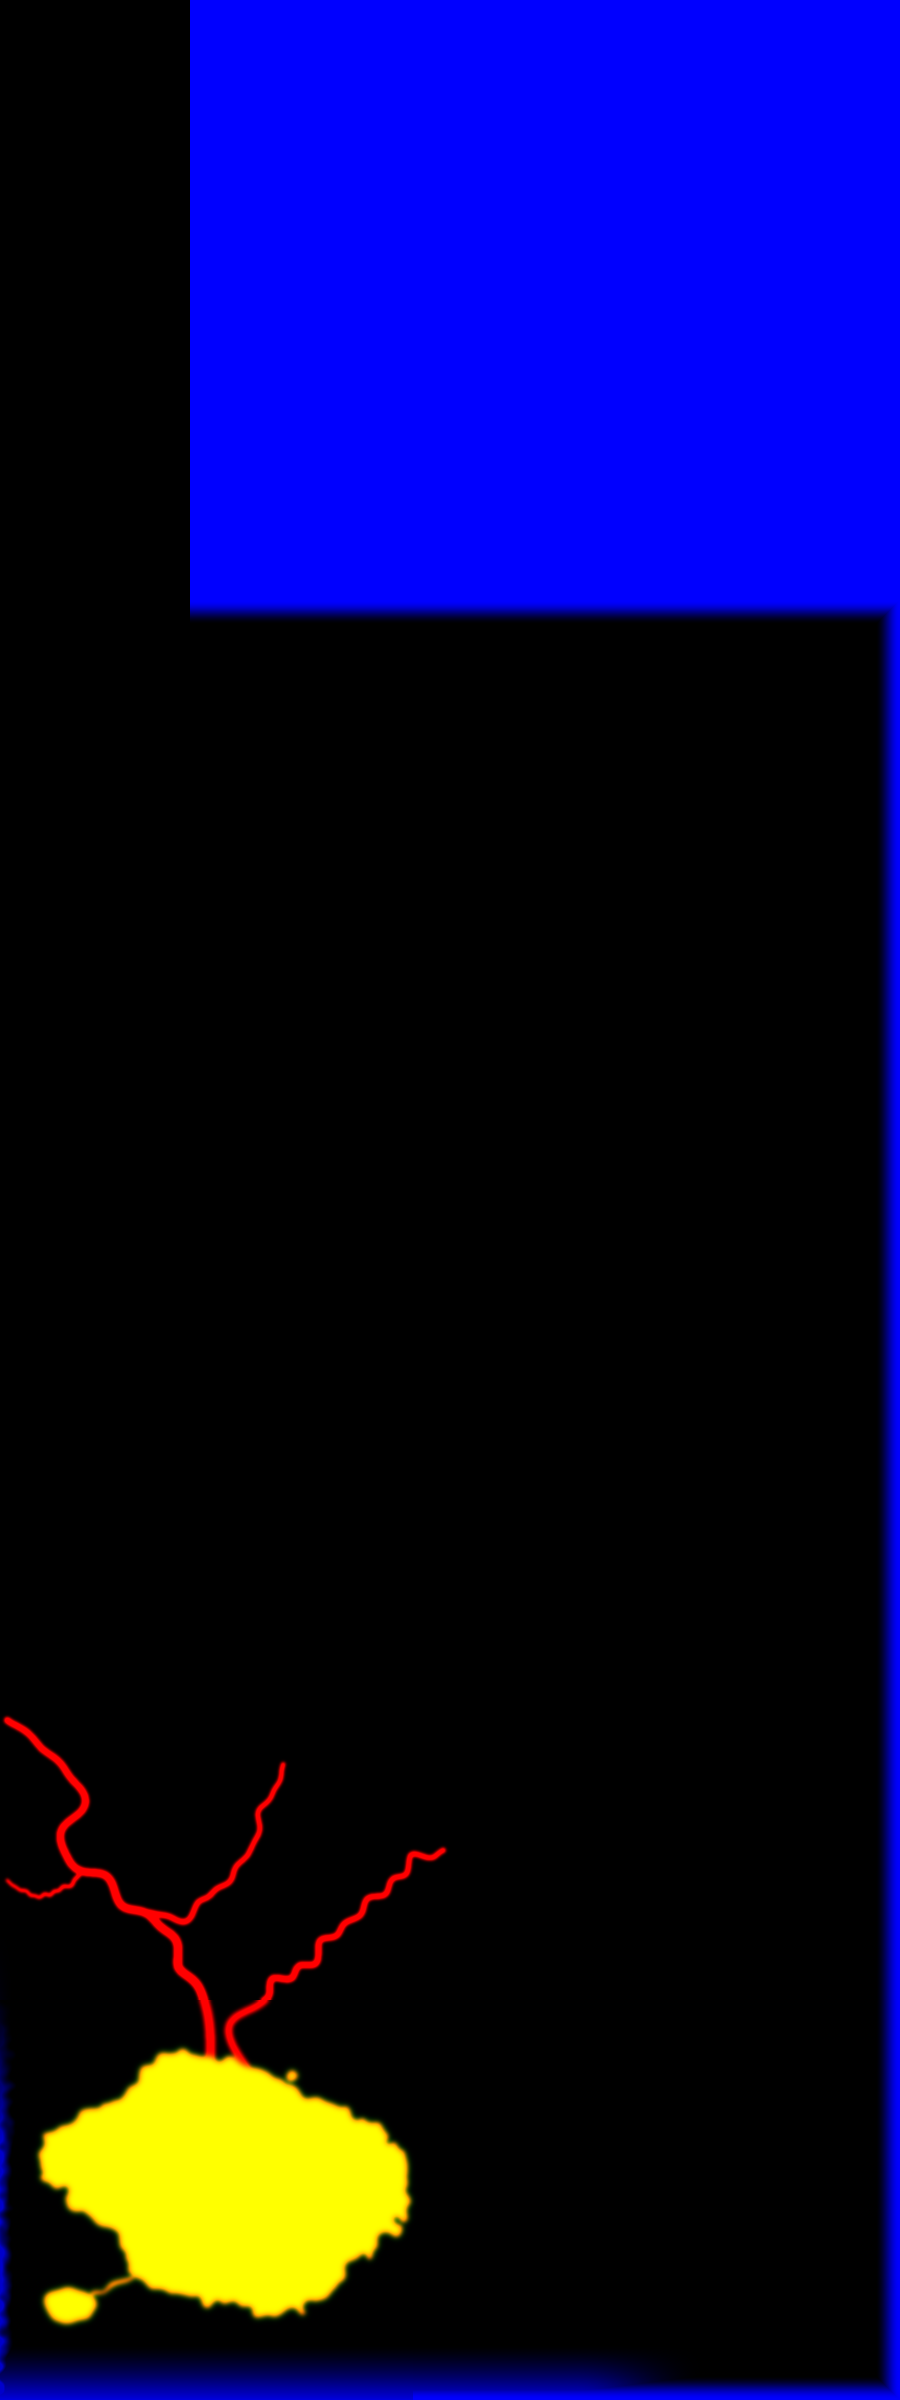
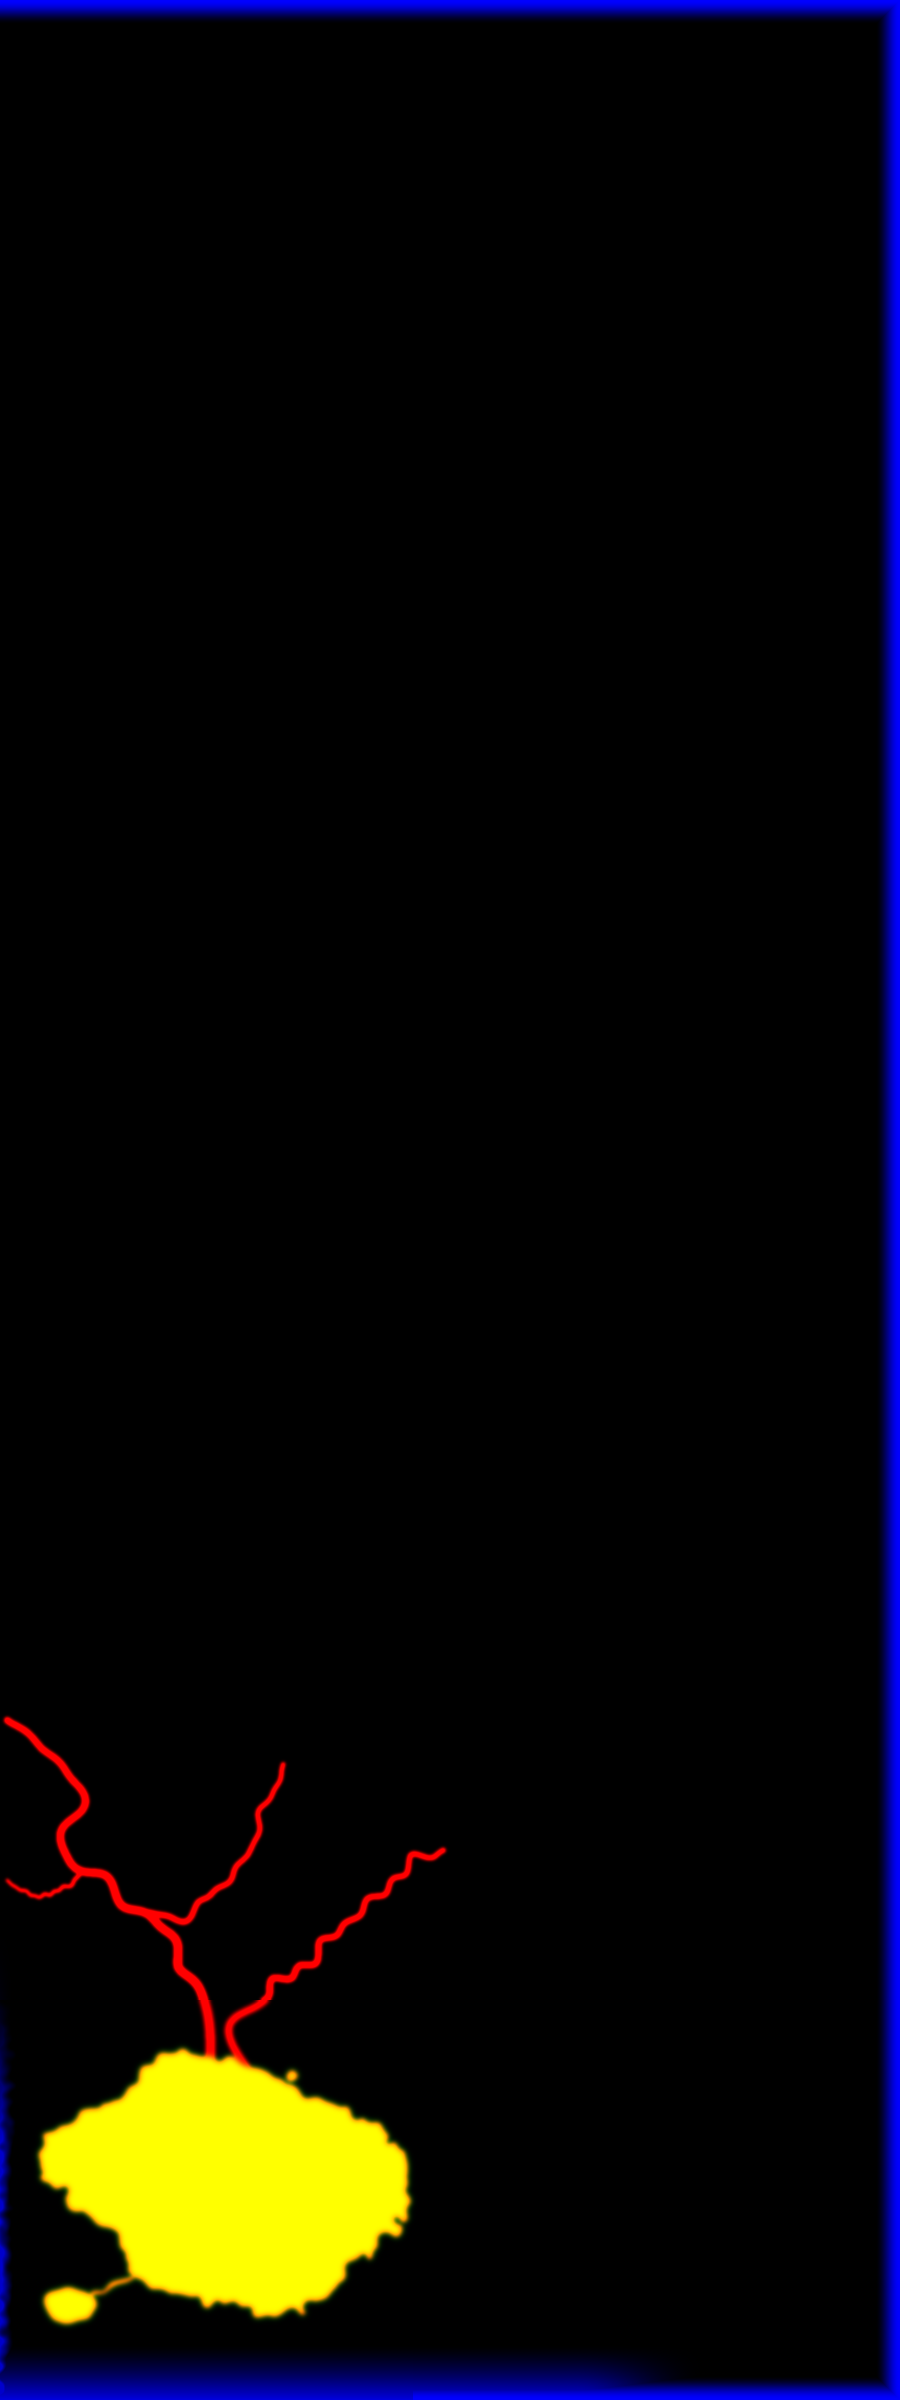
0.11.3: Nebelwand stand mitten im Norden (oberste Reihe hochgezogen) - jetzt nur am neuen Weltrand oben und am Ostrand; Test

Changed region(s): [[0.0, 0.0, 0.9956, 0.2812]]

diff --git a/tools/world/gen_north.py b/tools/world/gen_north.py
@@ -162,7 +162,14 @@ def main():
         a = im[name]
         top = np.zeros((NORTH_H // 2,) + a.shape[1:], a.dtype)
         if name == 'mist_fields.png':
-            top[:] = a[:1]
+            # B is the mist wall at the world's edge: the old one along today's top moves up to the new top,
+            # the one along the east edge runs on up (taking today's top row on (0.11.0) made a wall 1200 px high)
+            a = a.copy()
+            side = a[100:101, :, 2]                                  # the east edge's wall, from a row away from the top
+            prof = a[:30, 450, 2].astype(float)[:, None]             # the top wall's fall-off
+            a[:30, :, 2] = side                                      # today's top: no wall any more
+            top[..., 2] = side
+            top[:30, :, 2] = np.maximum(side, prof).astype(np.uint8)
         if name == 'grade_field.png':
             top = north_grade
         Image.fromarray(grow(a, top)).save(os.path.join(OUT, name))

diff --git a/tools/tests/test_north_world.py b/tools/tests/test_north_world.py
@@ -42,6 +42,13 @@ class NorthWorld(unittest.TestCase):
             small = [i for i in range(1, k + 1) if size[i] < ISLAND and i not in edge]
             self.assertEqual(small, [], name)
 
+    def test_the_mist_wall_stands_at_the_world_s_edges_only(self):
+        # 0.11.0: today's top row's wall was carried up the whole north: a grey wall through the hut's wood
+        b = np.array(Image.open(os.path.join(D, 'mist_fields.png')).convert('RGB'))[..., 2]
+        inner = b[40:self.n // 2 + 200, 20:860]                # half size: under the top, off the east edge (its wall reaches ~45 px in)
+        self.assertEqual(int(inner.max()), 0)
+        self.assertGreater(int(b[0, 450]), 200, 'oben am Weltrand steht die Nebelwand')
+
 
 if __name__ == '__main__':
     unittest.main()
